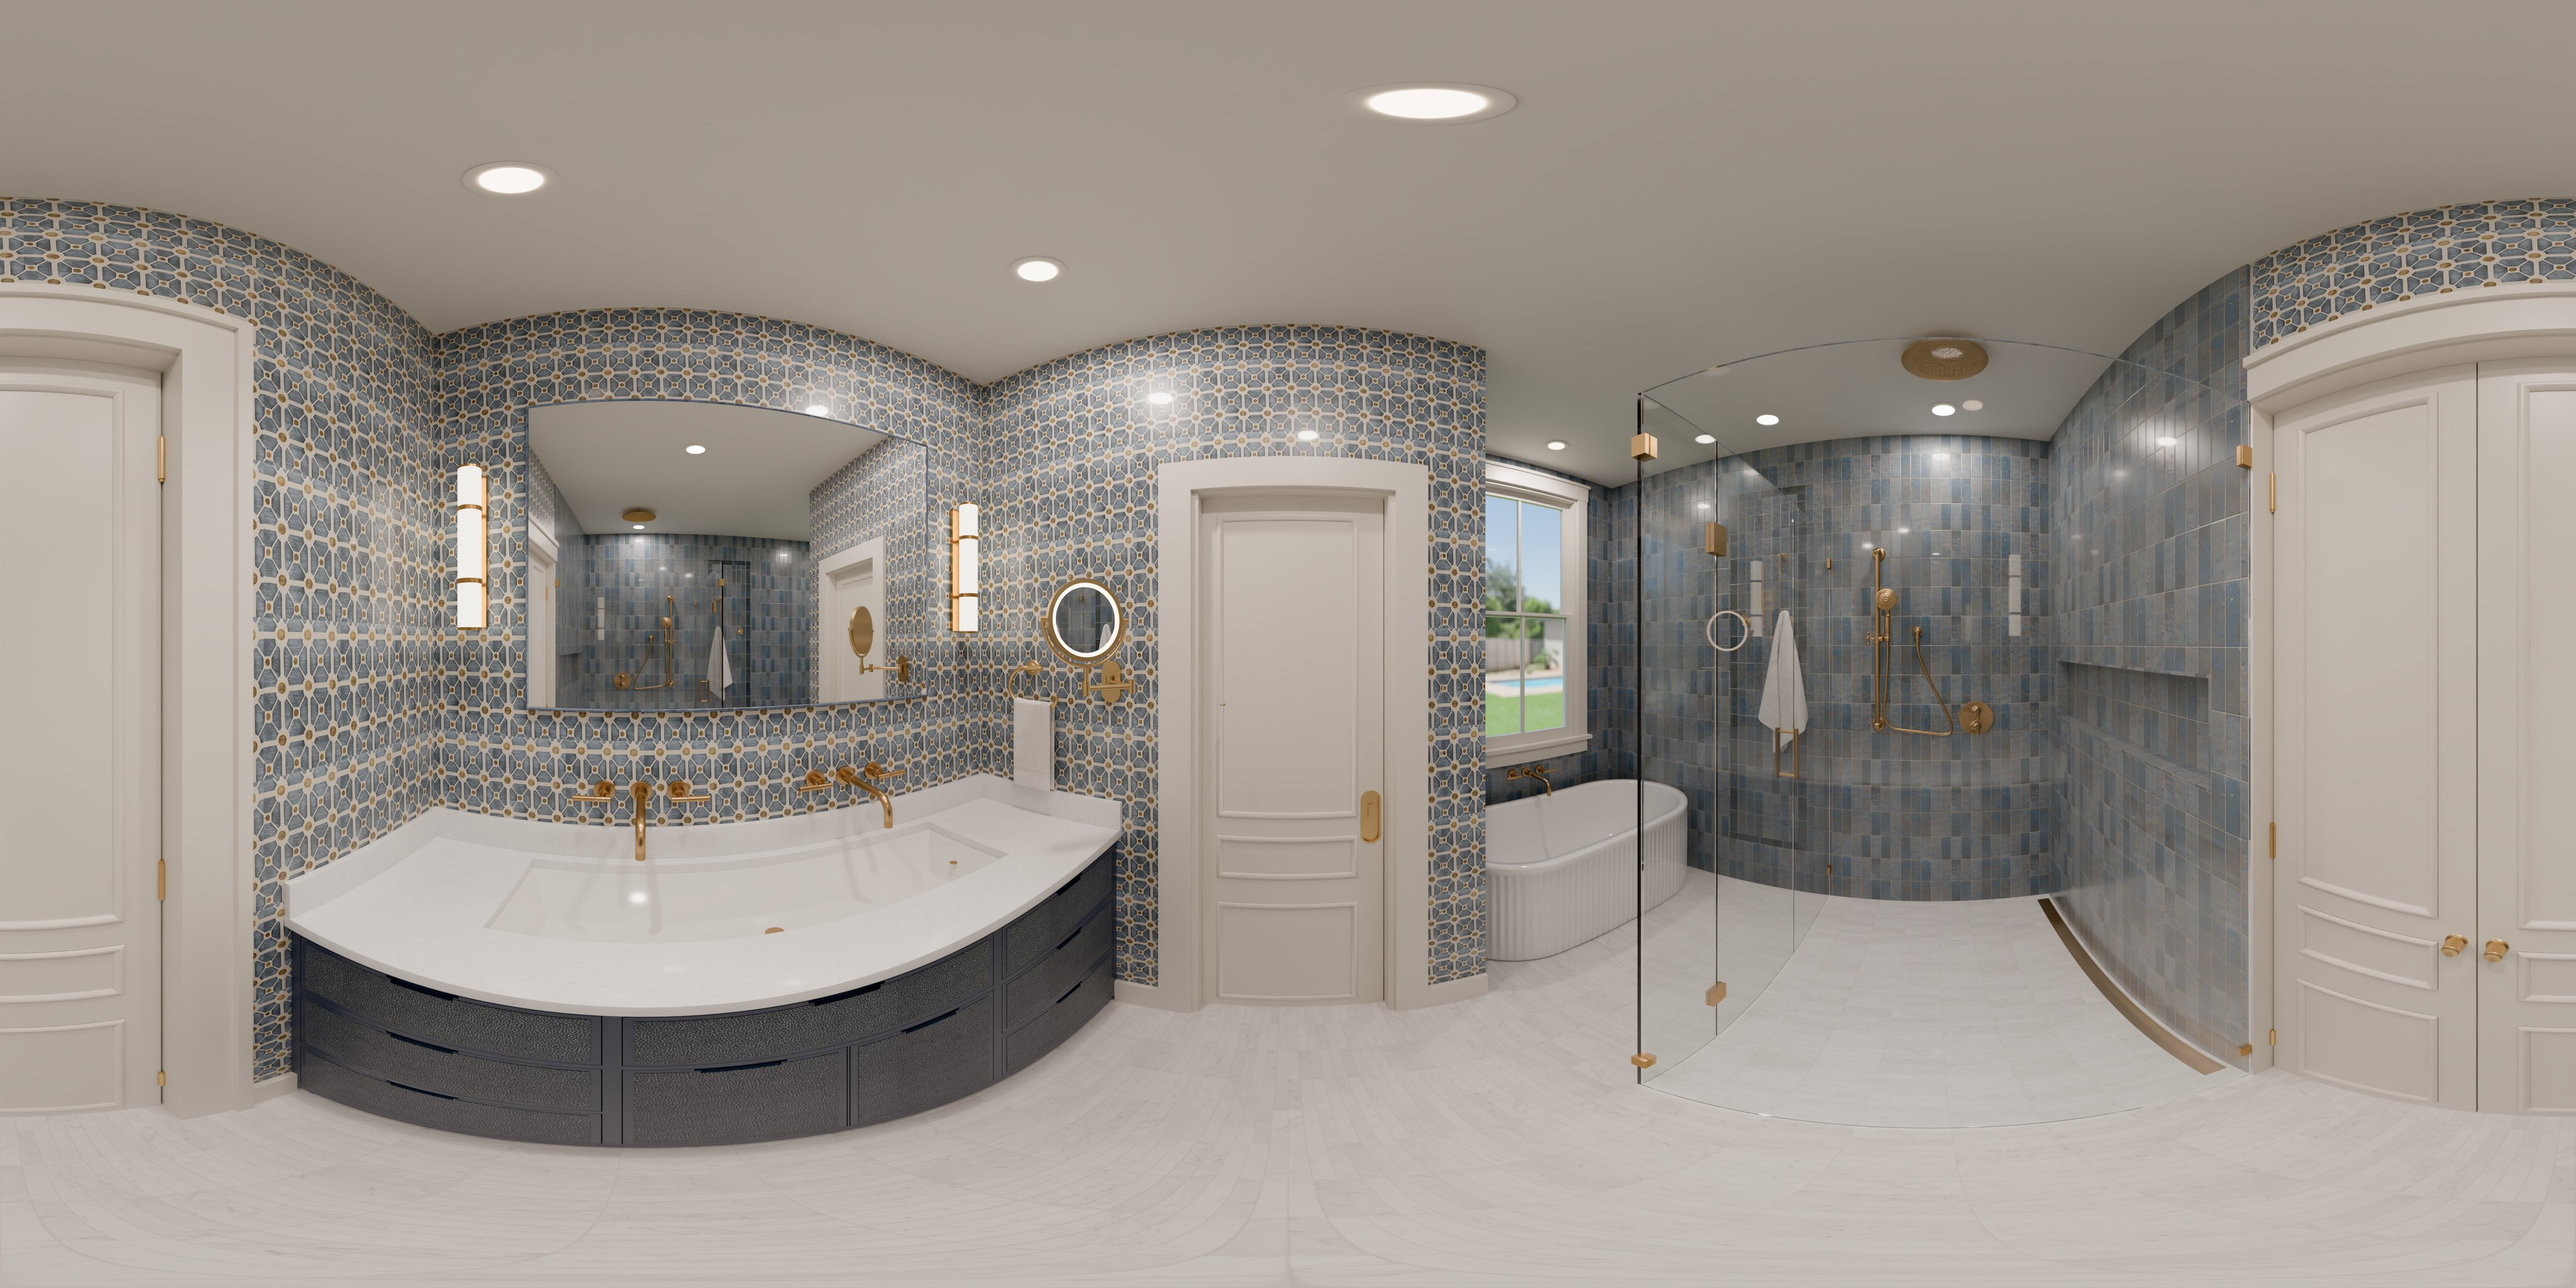
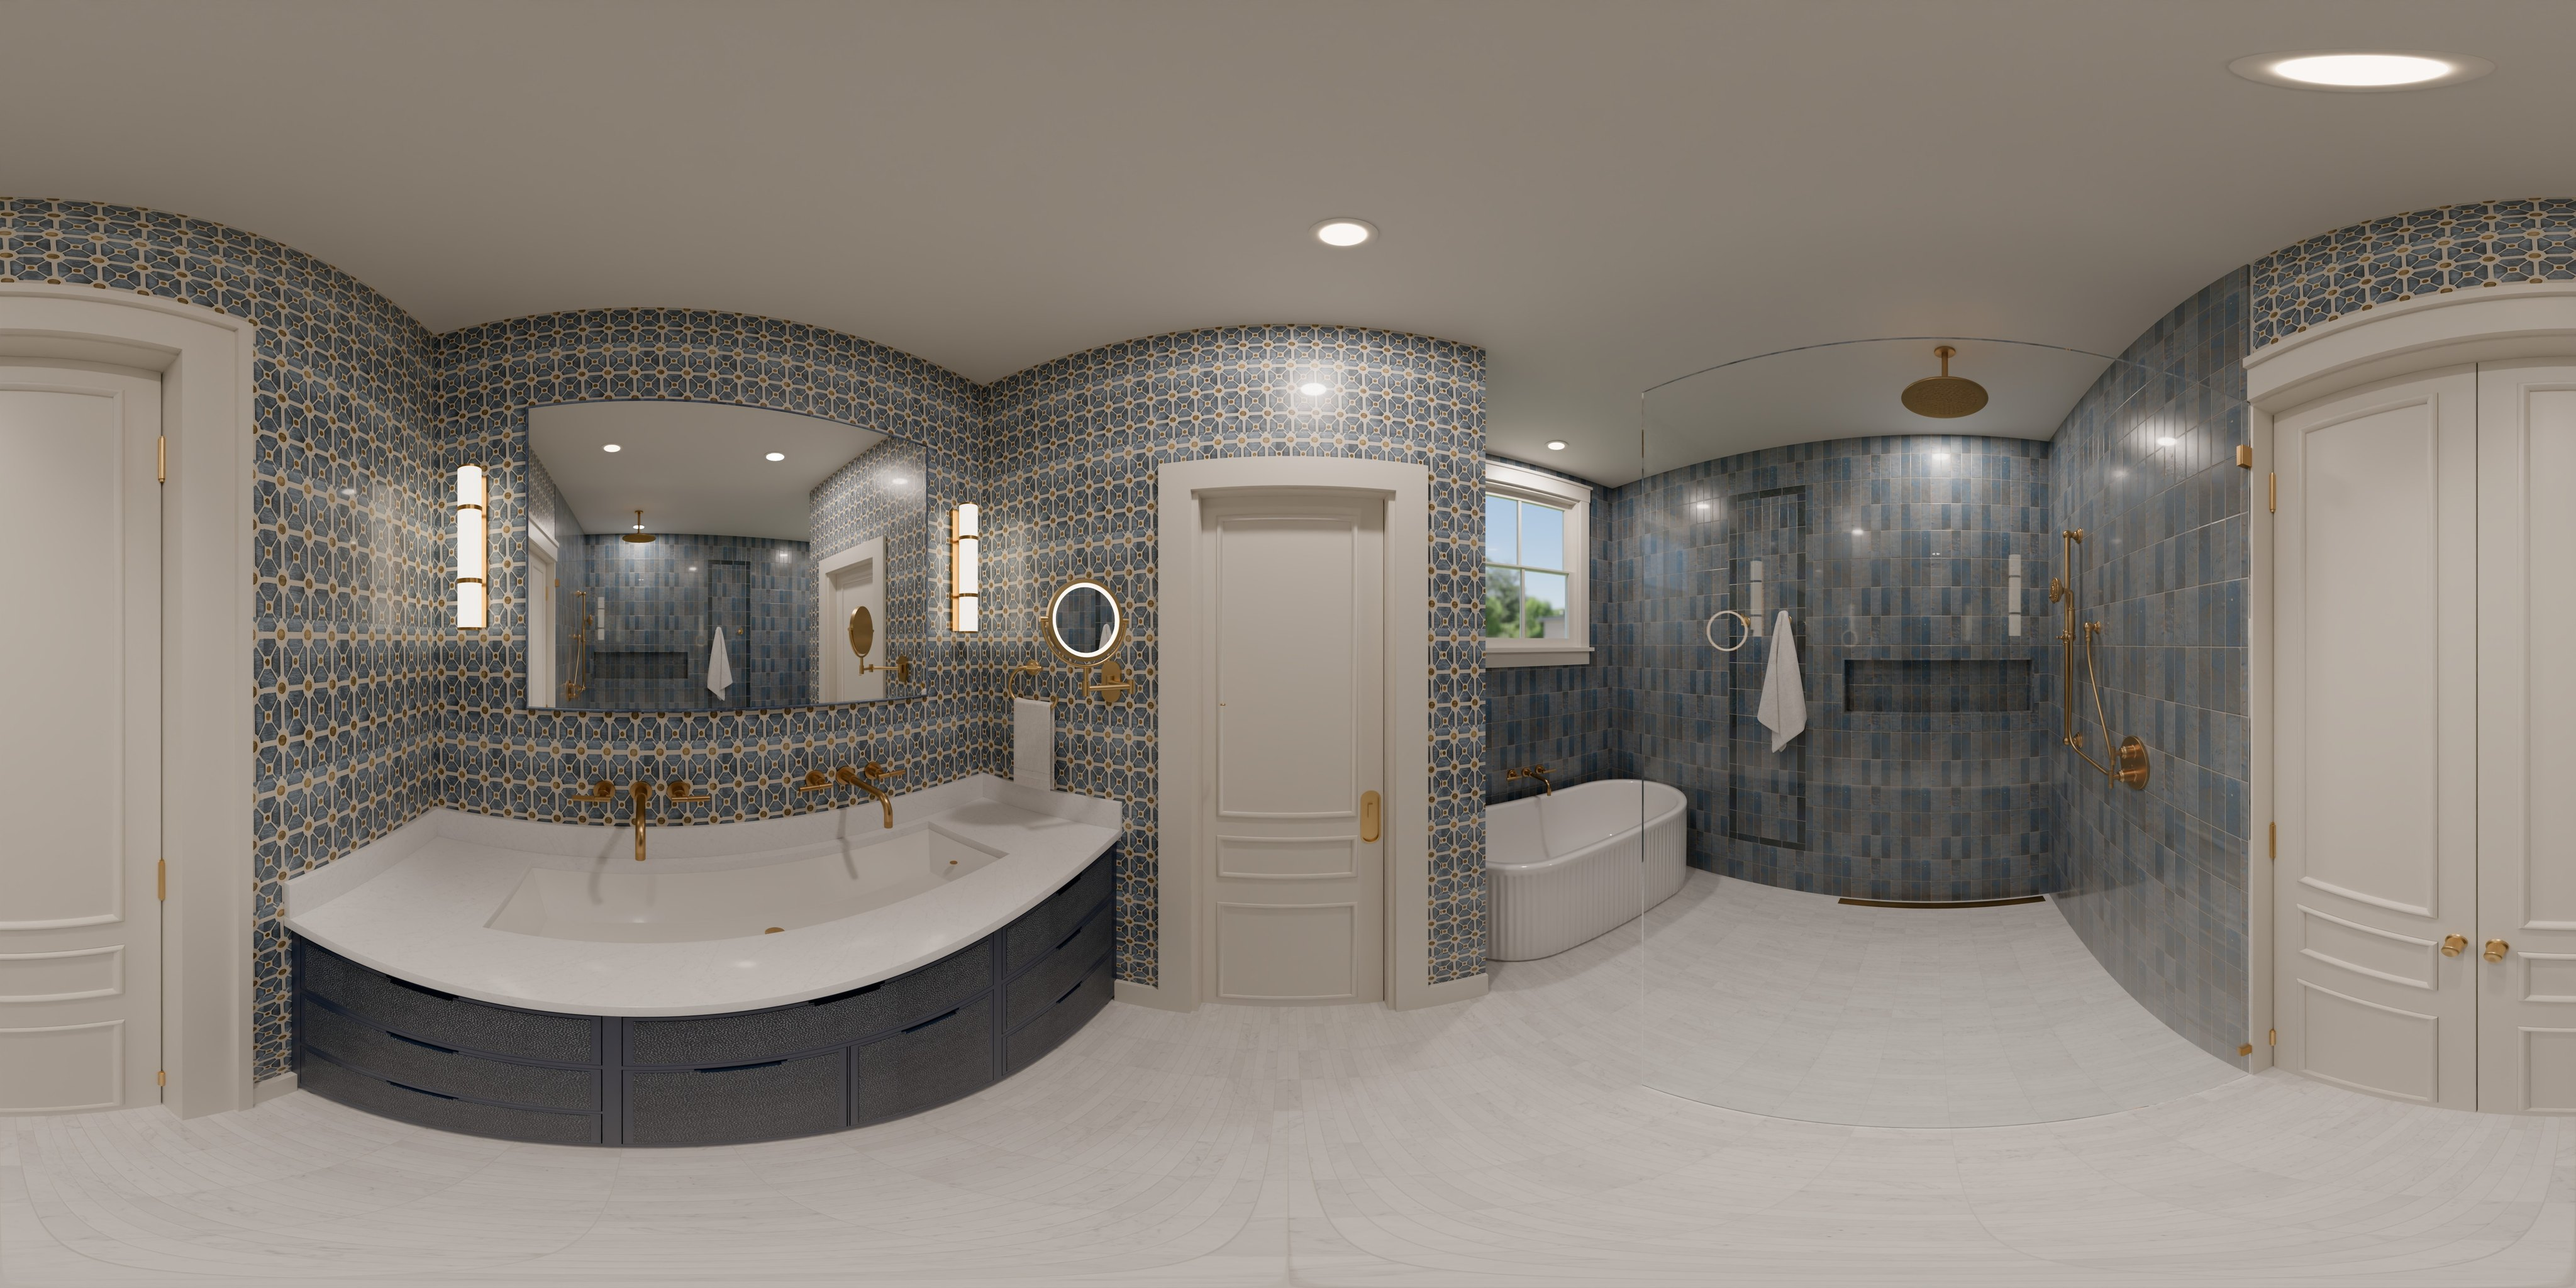
Bath round 5: updated 360s, remove Option B (white walls) from the tour

diff --git a/bath_tour.js b/bath_tour.js
@@ -1,1 +1,1 @@
-window.TOUR = {"project": "629 Burdette St · Primary Bath", "default_node": "bath01", "default_floor": "opt1", "default_doors": "closed", "floor_label": "Walls", "floors": {"opt1": "Option 1 · Tiled walls", "opt2": "Option 2 · White walls"}, "doors": {"closed": "-"}, "client": {"name": "Maureen Stevens Design", "url": "https://www.maureenstevens.com/"}, "times": ["day"], "nodes": [{"id": "bath01", "label": "Vanity", "view": {"yaw": -45, "pitch": -4, "hfov": 110}, "links": [{"to": "bath02", "label": "Tub & Shower", "yaw": 54.35, "pitch": -43.2}], "appliances": [], "photos": [{"still": "Bath_Still_02_Vanity", "label": "Double Trough Vanity", "yaw": -75.12, "pitch": -18.56}, {"still": "Bath_Still_03_Vanity_Detail", "label": "Satin Bronze Faucet", "yaw": -90.62, "pitch": -27.12}, {"still": "Bath_Still_05_Shower", "label": "Walk-in Shower", "yaw": 90.94, "pitch": -7.55}, {"still": "Bath_Still_08_Magnifier_Ring", "label": "Towel Ring & Magnifier", "yaw": -30.72, "pitch": -3.41}, {"still": "Bath_Still_09_Shower_Niche", "label": "Shower Fixtures & Niche", "yaw": 105.36, "pitch": -5.83}], "panos": {"floor-opt1__doors-closed": {"full": "pano_bath01_opt1.jpg", "mobile": "pano_bath01_opt1_m.jpg"}, "floor-opt2__doors-closed": {"full": "pano_bath01_opt2.jpg", "mobile": "pano_bath01_opt2_m.jpg"}}}, {"id": "bath02", "label": "Tub & Shower", "view": {"yaw": 40, "pitch": -4, "hfov": 110}, "links": [{"to": "bath01", "label": "Vanity", "yaw": -125.65, "pitch": -43.2}], "appliances": [], "photos": [{"still": "Bath_Still_01_Hero", "label": "The Primary Bath", "yaw": 26.16, "pitch": -38.03}, {"still": "Bath_Still_04_Tub_Window", "label": "Tub & Window", "yaw": 1.86, "pitch": -19.06}, {"still": "Bath_Still_06_Border_Wall", "label": "Border Wall & Robe Hooks", "yaw": 93.46, "pitch": -8.85}, {"still": "Bath_Still_07_Hooks_Detail", "label": "Robe Hook", "yaw": 84.36, "pitch": 9.18}], "panos": {"floor-opt1__doors-closed": {"full": "pano_bath02_opt1.jpg", "mobile": "pano_bath02_opt1_m.jpg"}, "floor-opt2__doors-closed": {"full": "pano_bath02_opt2.jpg", "mobile": "pano_bath02_opt2_m.jpg"}}}], "stills": [{"id": "Bath_Still_01_Hero", "caption": "The Primary Bath", "src": "still_Bath_Still_01_Hero.jpg", "thumb": "thumb_Bath_Still_01_Hero.jpg", "w": 2400, "h": 1600}, {"id": "Bath_Still_02_Vanity", "caption": "Double Trough Vanity", "src": "still_Bath_Still_02_Vanity.jpg", "thumb": "thumb_Bath_Still_02_Vanity.jpg", "w": 1920, "h": 2400}, {"id": "Bath_Still_03_Vanity_Detail", "caption": "Satin Bronze Faucet", "src": "still_Bath_Still_03_Vanity_Detail.jpg", "thumb": "thumb_Bath_Still_03_Vanity_Detail.jpg", "w": 2400, "h": 1600}, {"id": "Bath_Still_04_Tub_Window", "caption": "Tub & Window", "src": "still_Bath_Still_04_Tub_Window.jpg", "thumb": "thumb_Bath_Still_04_Tub_Window.jpg", "w": 1600, "h": 2400}, {"id": "Bath_Still_05_Shower", "caption": "Walk-in Shower", "src": "still_Bath_Still_05_Shower.jpg", "thumb": "thumb_Bath_Still_05_Shower.jpg", "w": 2400, "h": 1600}, {"id": "Bath_Still_06_Border_Wall", "caption": "Border Wall & Robe Hooks", "src": "still_Bath_Still_06_Border_Wall.jpg", "thumb": "thumb_Bath_Still_06_Border_Wall.jpg", "w": 1920, "h": 2400}, {"id": "Bath_Still_07_Hooks_Detail", "caption": "Robe Hook", "src": "still_Bath_Still_07_Hooks_Detail.jpg", "thumb": "thumb_Bath_Still_07_Hooks_Detail.jpg", "w": 1920, "h": 2400}, {"id": "Bath_Still_08_Magnifier_Ring", "caption": "Towel Ring & Magnifier", "src": "still_Bath_Still_08_Magnifier_Ring.jpg", "thumb": "thumb_Bath_Still_08_Magnifier_Ring.jpg", "w": 1920, "h": 2400}, {"id": "Bath_Still_09_Shower_Niche", "caption": "Shower Fixtures & Niche", "src": "still_Bath_Still_09_Shower_Niche.jpg", "thumb": "thumb_Bath_Still_09_Shower_Niche.jpg", "w": 2400, "h": 1600}]};
+window.TOUR = {"project": "629 Burdette St · Primary Bath", "default_node": "bath01", "default_floor": "opt1", "default_doors": "closed", "floor_label": "Walls", "floors": {"opt1": "Option 1 · Tiled walls"}, "doors": {"closed": "-"}, "client": {"name": "Maureen Stevens Design", "url": "https://www.maureenstevens.com/"}, "times": ["day"], "nodes": [{"id": "bath01", "label": "Vanity", "view": {"yaw": -45, "pitch": -4, "hfov": 110}, "links": [{"to": "bath02", "label": "Tub & Shower", "yaw": 54.35, "pitch": -43.2}], "appliances": [], "photos": [{"still": "Bath_Still_02_Vanity", "label": "Double Trough Vanity", "yaw": -75.12, "pitch": -18.56}, {"still": "Bath_Still_03_Vanity_Detail", "label": "Satin Bronze Faucet", "yaw": -90.62, "pitch": -27.12}, {"still": "Bath_Still_05_Shower", "label": "Walk-in Shower", "yaw": 90.94, "pitch": -7.55}, {"still": "Bath_Still_08_Magnifier_Ring", "label": "Towel Ring & Magnifier", "yaw": -30.72, "pitch": -3.41}, {"still": "Bath_Still_09_Shower_Niche", "label": "Shower Fixtures & Niche", "yaw": 105.36, "pitch": -5.83}], "panos": {"floor-opt1__doors-closed": {"full": "pano_bath01_opt1.jpg", "mobile": "pano_bath01_opt1_m.jpg"}}}, {"id": "bath02", "label": "Tub & Shower", "view": {"yaw": 40, "pitch": -4, "hfov": 110}, "links": [{"to": "bath01", "label": "Vanity", "yaw": -125.65, "pitch": -43.2}], "appliances": [], "photos": [{"still": "Bath_Still_01_Hero", "label": "The Primary Bath", "yaw": 26.16, "pitch": -38.03}, {"still": "Bath_Still_04_Tub_Window", "label": "Tub & Window", "yaw": 1.86, "pitch": -19.06}, {"still": "Bath_Still_06_Border_Wall", "label": "Border Wall & Robe Hooks", "yaw": 93.46, "pitch": -8.85}, {"still": "Bath_Still_07_Hooks_Detail", "label": "Robe Hook", "yaw": 84.36, "pitch": 9.18}], "panos": {"floor-opt1__doors-closed": {"full": "pano_bath02_opt1.jpg", "mobile": "pano_bath02_opt1_m.jpg"}}}], "stills": [{"id": "Bath_Still_01_Hero", "caption": "The Primary Bath", "src": "still_Bath_Still_01_Hero.jpg", "thumb": "thumb_Bath_Still_01_Hero.jpg", "w": 2400, "h": 1600}, {"id": "Bath_Still_02_Vanity", "caption": "Double Trough Vanity", "src": "still_Bath_Still_02_Vanity.jpg", "thumb": "thumb_Bath_Still_02_Vanity.jpg", "w": 1920, "h": 2400}, {"id": "Bath_Still_03_Vanity_Detail", "caption": "Satin Bronze Faucet", "src": "still_Bath_Still_03_Vanity_Detail.jpg", "thumb": "thumb_Bath_Still_03_Vanity_Detail.jpg", "w": 2400, "h": 1600}, {"id": "Bath_Still_04_Tub_Window", "caption": "Tub & Window", "src": "still_Bath_Still_04_Tub_Window.jpg", "thumb": "thumb_Bath_Still_04_Tub_Window.jpg", "w": 1600, "h": 2400}, {"id": "Bath_Still_05_Shower", "caption": "Walk-in Shower", "src": "still_Bath_Still_05_Shower.jpg", "thumb": "thumb_Bath_Still_05_Shower.jpg", "w": 2400, "h": 1600}, {"id": "Bath_Still_06_Border_Wall", "caption": "Border Wall & Robe Hooks", "src": "still_Bath_Still_06_Border_Wall.jpg", "thumb": "thumb_Bath_Still_06_Border_Wall.jpg", "w": 1920, "h": 2400}, {"id": "Bath_Still_07_Hooks_Detail", "caption": "Robe Hook", "src": "still_Bath_Still_07_Hooks_Detail.jpg", "thumb": "thumb_Bath_Still_07_Hooks_Detail.jpg", "w": 1920, "h": 2400}, {"id": "Bath_Still_08_Magnifier_Ring", "caption": "Towel Ring & Magnifier", "src": "still_Bath_Still_08_Magnifier_Ring.jpg", "thumb": "thumb_Bath_Still_08_Magnifier_Ring.jpg", "w": 1920, "h": 2400}, {"id": "Bath_Still_09_Shower_Niche", "caption": "Shower Fixtures & Niche", "src": "still_Bath_Still_09_Shower_Niche.jpg", "thumb": "thumb_Bath_Still_09_Shower_Niche.jpg", "w": 2400, "h": 1600}]};
